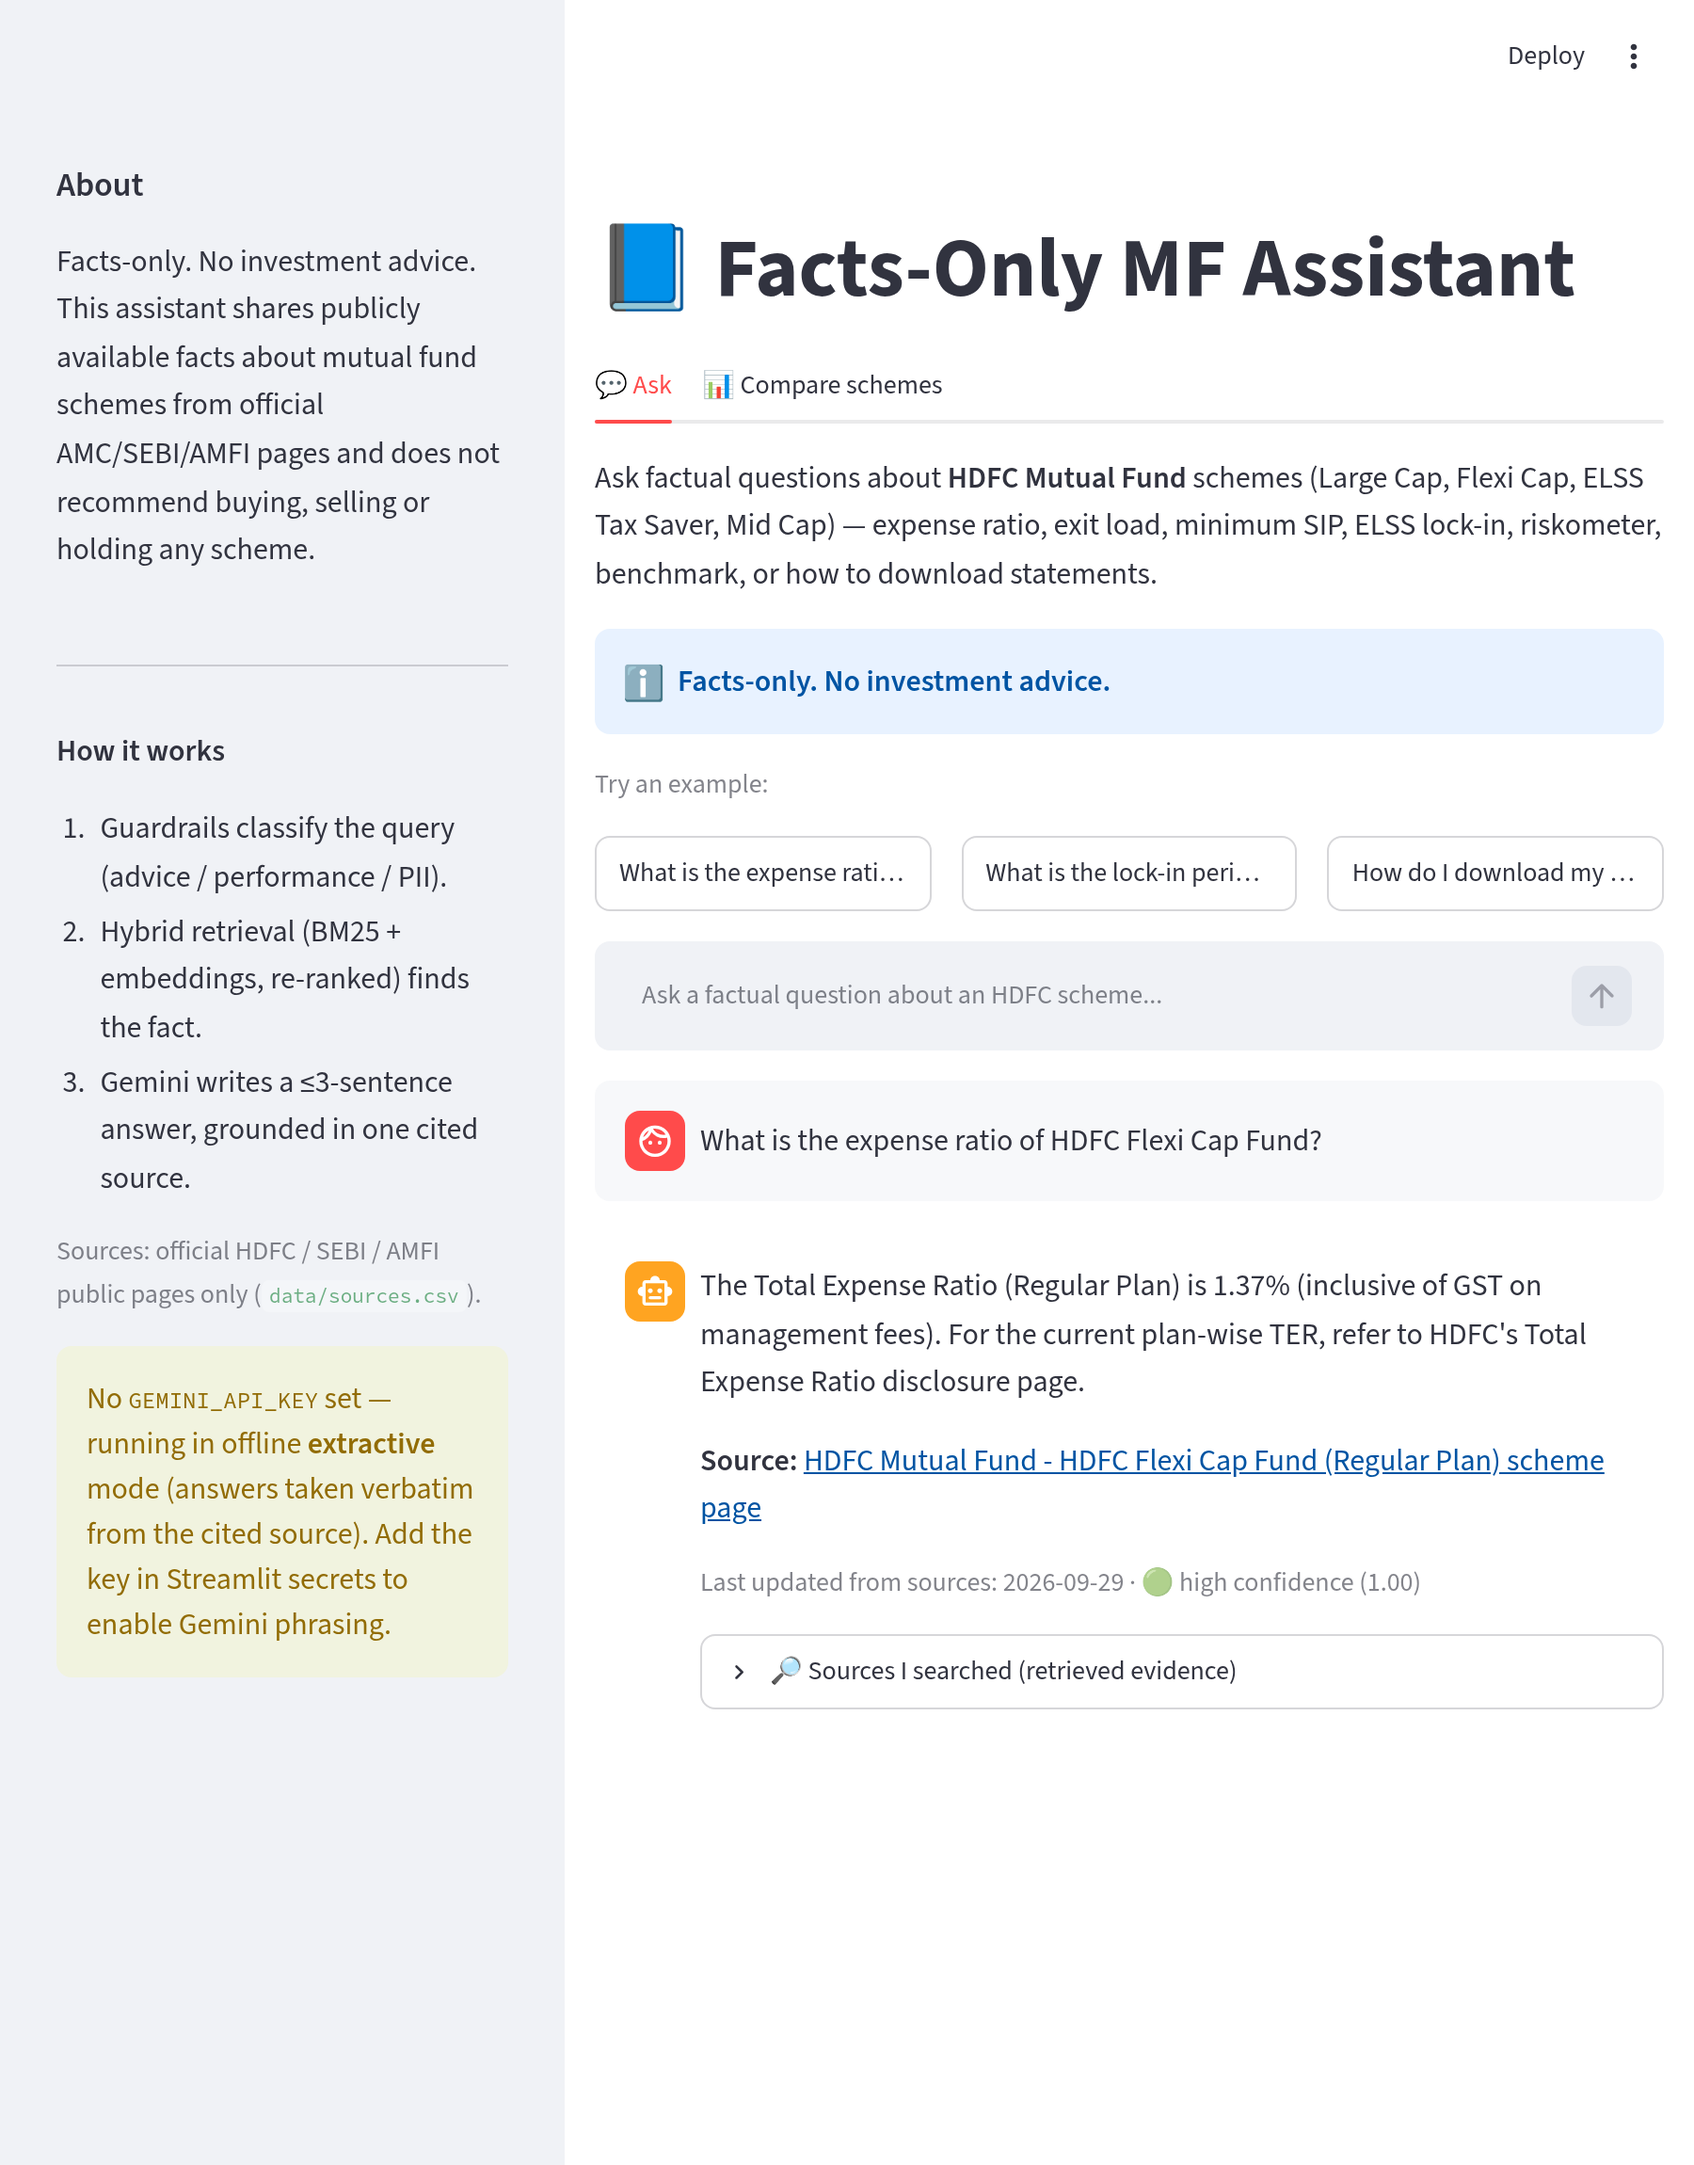
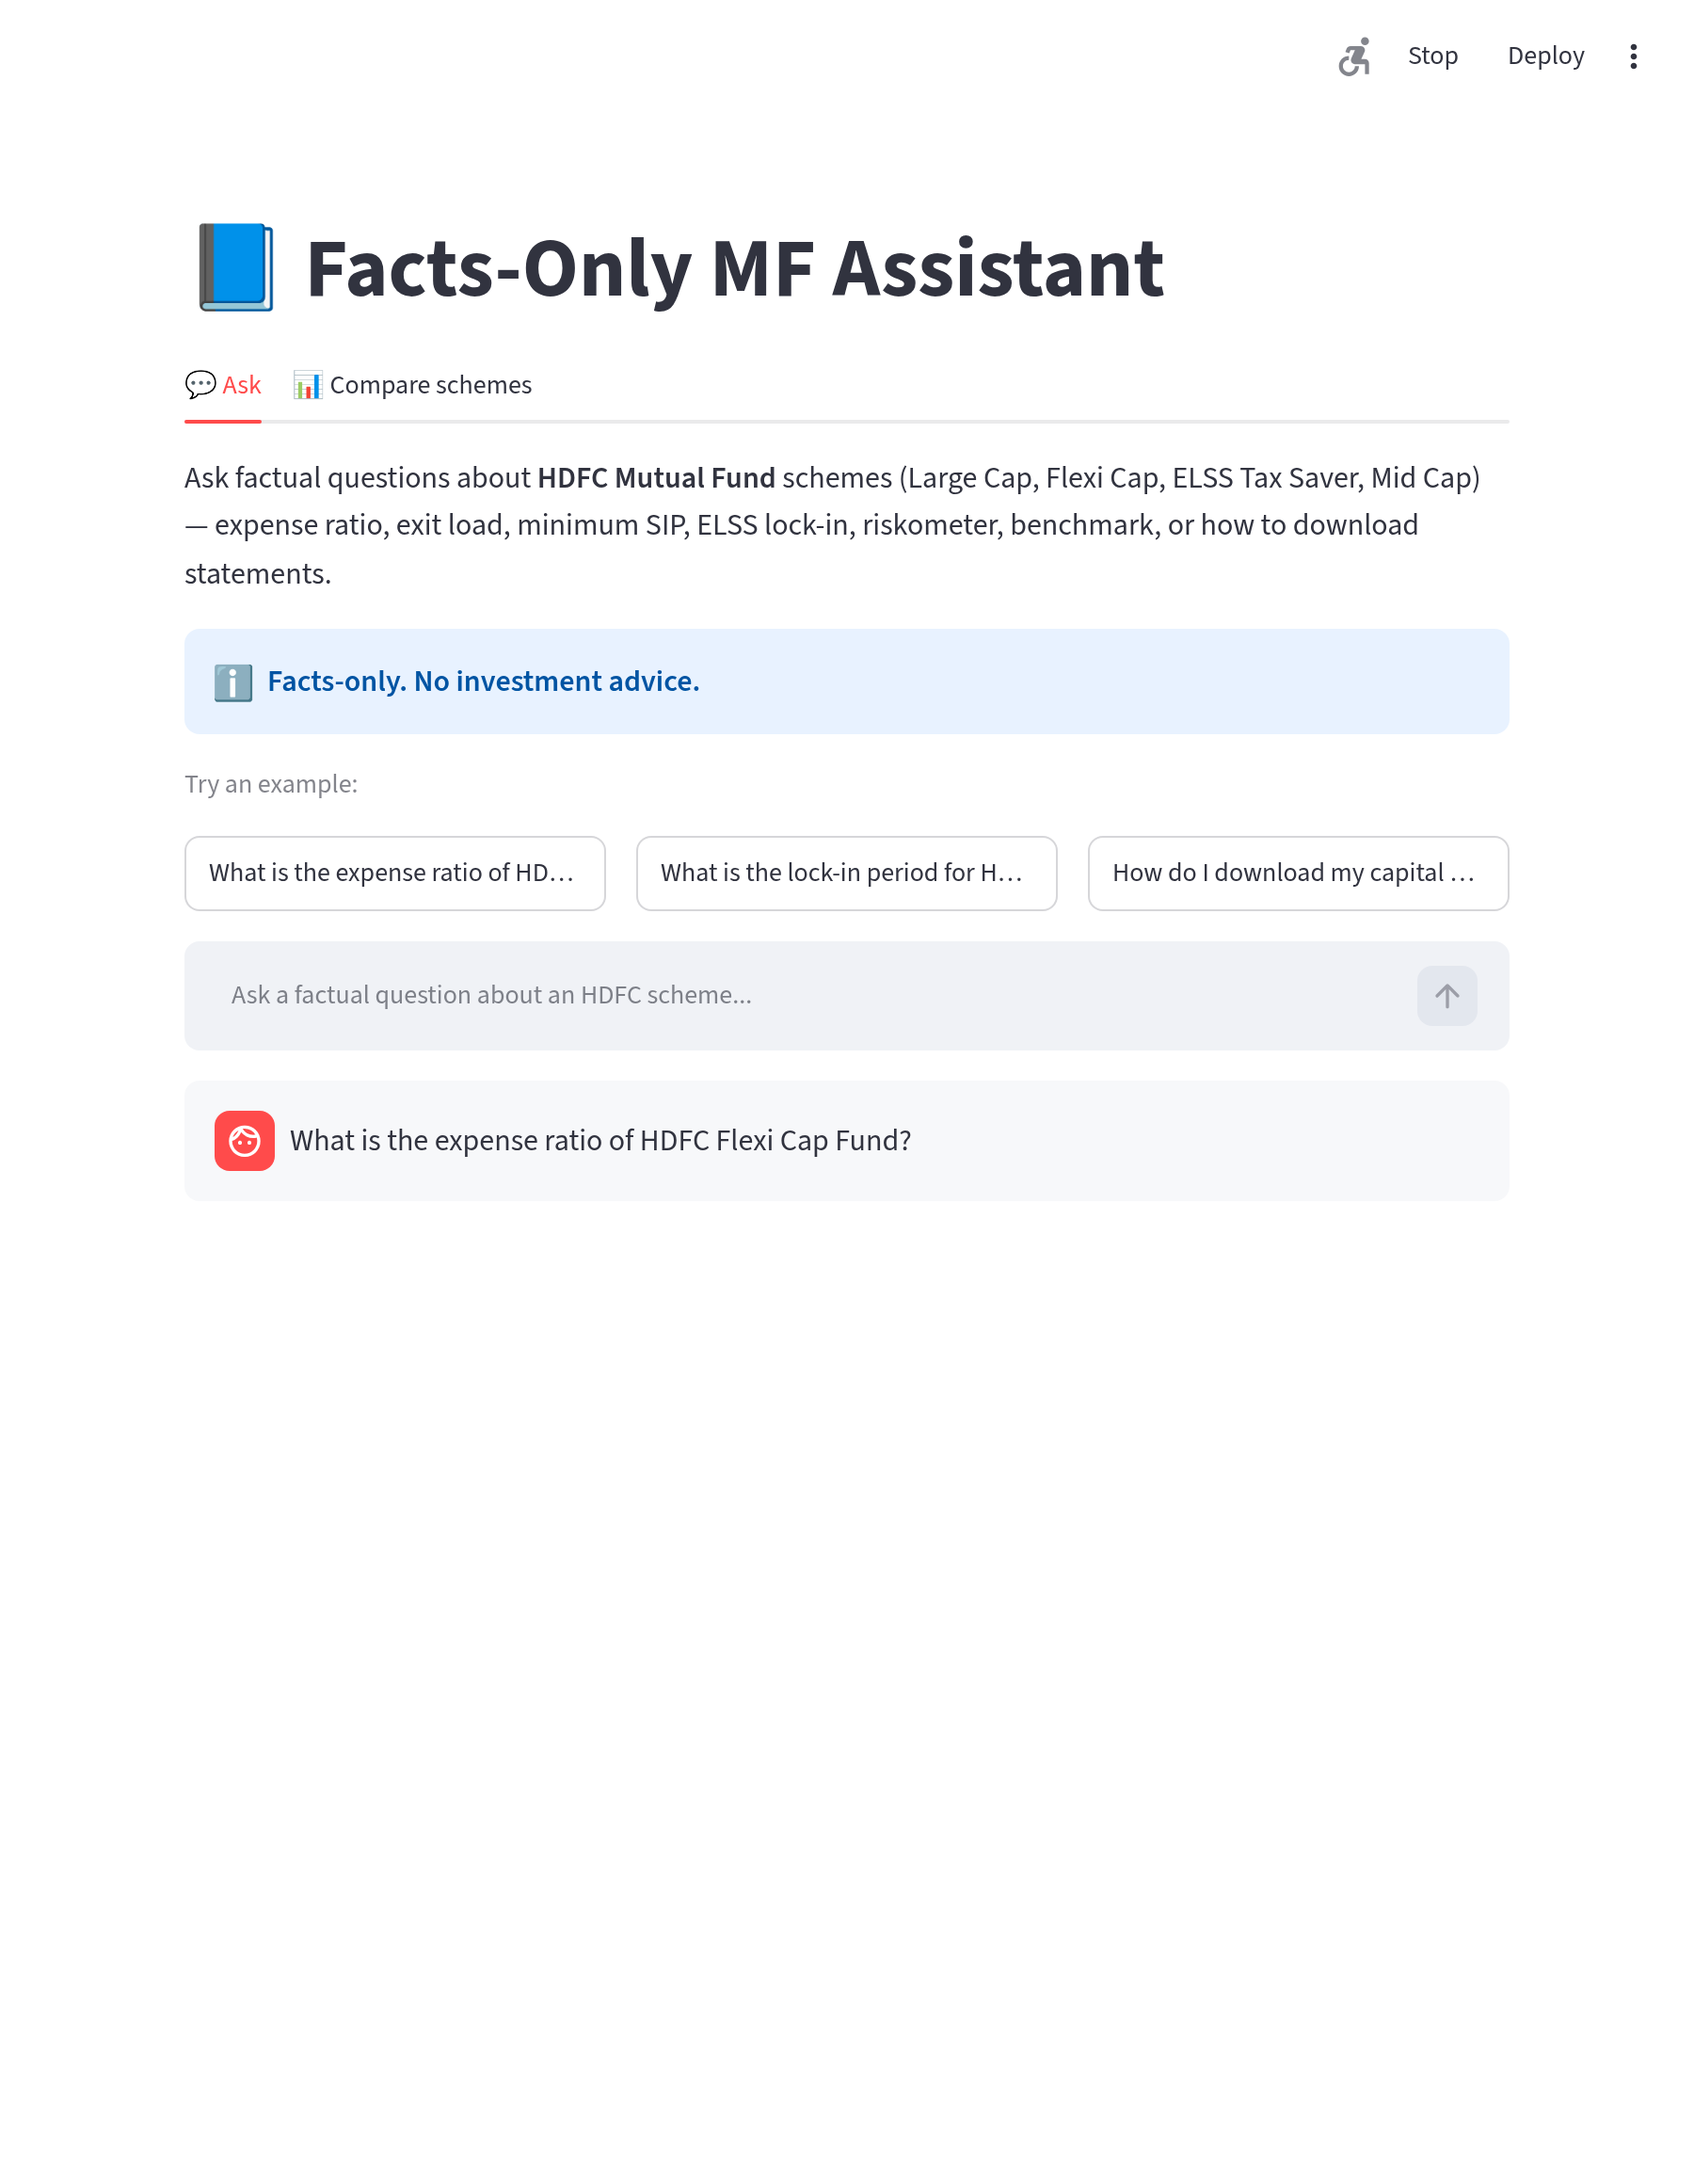
Migrate to google-genai SDK (gemini-3.8-flash); disable Gemini in tests/eval for determinism

diff --git a/src/mf_assistant/generator.py b/src/mf_assistant/generator.py
@@ -47,19 +47,19 @@ def _generate_gemini(question: str, chunks: list[RetrievedChunk]) -> str | None:
     if not api_key:
         return None
     try:
-        import google.generativeai as genai
+        from google import genai
+        from google.genai import types
 
-        genai.configure(api_key=api_key)
-        model = genai.GenerativeModel(
-            config.GEMINI_MODEL, system_instruction=SYSTEM_INSTRUCTION
-        )
+        client = genai.Client(api_key=api_key)
         prompt = PROMPT_TEMPLATE.format(context=build_context(chunks), question=question)
-        resp = model.generate_content(
-            prompt,
-            generation_config={
-                "temperature": config.GEN_TEMPERATURE,
-                "max_output_tokens": config.GEN_MAX_TOKENS,
-            },
+        resp = client.models.generate_content(
+            model=config.GEMINI_MODEL,
+            contents=prompt,
+            config=types.GenerateContentConfig(
+                system_instruction=SYSTEM_INSTRUCTION,
+                temperature=config.GEN_TEMPERATURE,
+                max_output_tokens=config.GEN_MAX_TOKENS,
+            ),
         )
         return (resp.text or "").strip() or None
     except Exception:

diff --git a/scripts/check_gemini.py b/scripts/check_gemini.py
@@ -41,11 +41,12 @@ def main() -> int:
 
     print(f"🔑 Key found (…{key[-4:]}). Model: {config.GEMINI_MODEL}")
     try:
-        import google.generativeai as genai
+        from google import genai
 
-        genai.configure(api_key=key)
-        model = genai.GenerativeModel(config.GEMINI_MODEL)
-        resp = model.generate_content("Reply with exactly: OK")
+        client = genai.Client(api_key=key)
+        resp = client.models.generate_content(
+            model=config.GEMINI_MODEL, contents="Reply with exactly: OK"
+        )
         text = (resp.text or "").strip()
         print(f"✅ Gemini responded: {text!r}")
         print("   Integration works. Launch the app and answers will use Gemini phrasing.")
@@ -53,7 +54,7 @@ def main() -> int:
     except Exception as e:  # noqa: BLE001
         print(f"❌ Gemini call failed: {type(e).__name__}: {e}")
         print("   Common causes: wrong/expired key, billing/quota, or a bad model name.")
-        print("   Try a different model, e.g.  export GEMINI_MODEL=gemini-1.5-flash")
+        print("   Try a different model, e.g.  export GEMINI_MODEL=gemini-2.5-flash")
         return 1
 
 

diff --git a/src/mf_assistant/config.py b/src/mf_assistant/config.py
@@ -26,7 +26,7 @@ MIN_SCORE = 0.25                               # below this => "not in my source
 TOPIC_BOOST = 0.12                             # lexical boost per topic-keyword match
 
 # --- Generation ----------------------------------------------------------------
-GEMINI_MODEL = os.environ.get("GEMINI_MODEL", "gemini-2.0-flash")
+GEMINI_MODEL = os.environ.get("GEMINI_MODEL", "gemini-3.8-flash")
 MAX_SENTENCES = 3                              # answers stay <= 3 sentences
 GEN_TEMPERATURE = 0.1
 GEN_MAX_TOKENS = 220
@@ -50,7 +50,12 @@ EXAMPLE_QUESTIONS = [
 
 
 def get_gemini_api_key() -> str | None:
-    """Resolve the Gemini key from Streamlit secrets (if available) or the environment."""
+    """Resolve the Gemini key from Streamlit secrets (if available) or the environment.
+
+    Set MF_DISABLE_GEMINI=1 to force the deterministic extractive path (used in tests/eval).
+    """
+    if os.environ.get("MF_DISABLE_GEMINI") == "1":
+        return None
     try:
         import streamlit as st
 

diff --git a/eval/run_eval.py b/eval/run_eval.py
@@ -14,8 +14,14 @@ Gemini phrasing. Exits non-zero if routing accuracy drops below THRESHOLD (used 
 from __future__ import annotations
 
 import json
+import os
 import sys
 from pathlib import Path
+
+# Deterministic, free eval by default (retrieval/routing metrics don't depend on Gemini
+# phrasing). Set MF_EVAL_USE_GEMINI=1 to evaluate with live Gemini answers instead.
+if os.environ.get("MF_EVAL_USE_GEMINI") != "1":
+    os.environ["MF_DISABLE_GEMINI"] = "1"
 
 sys.path.insert(0, str(Path(__file__).resolve().parents[1] / "src"))
 

diff --git a/tests/conftest.py b/tests/conftest.py
@@ -1,0 +1,8 @@
+"""Test configuration.
+
+Force the deterministic extractive path so the suite never makes live Gemini calls
+(fast, free, and reproducible in CI regardless of any local secrets.toml / env key).
+"""
+import os
+
+os.environ["MF_DISABLE_GEMINI"] = "1"
